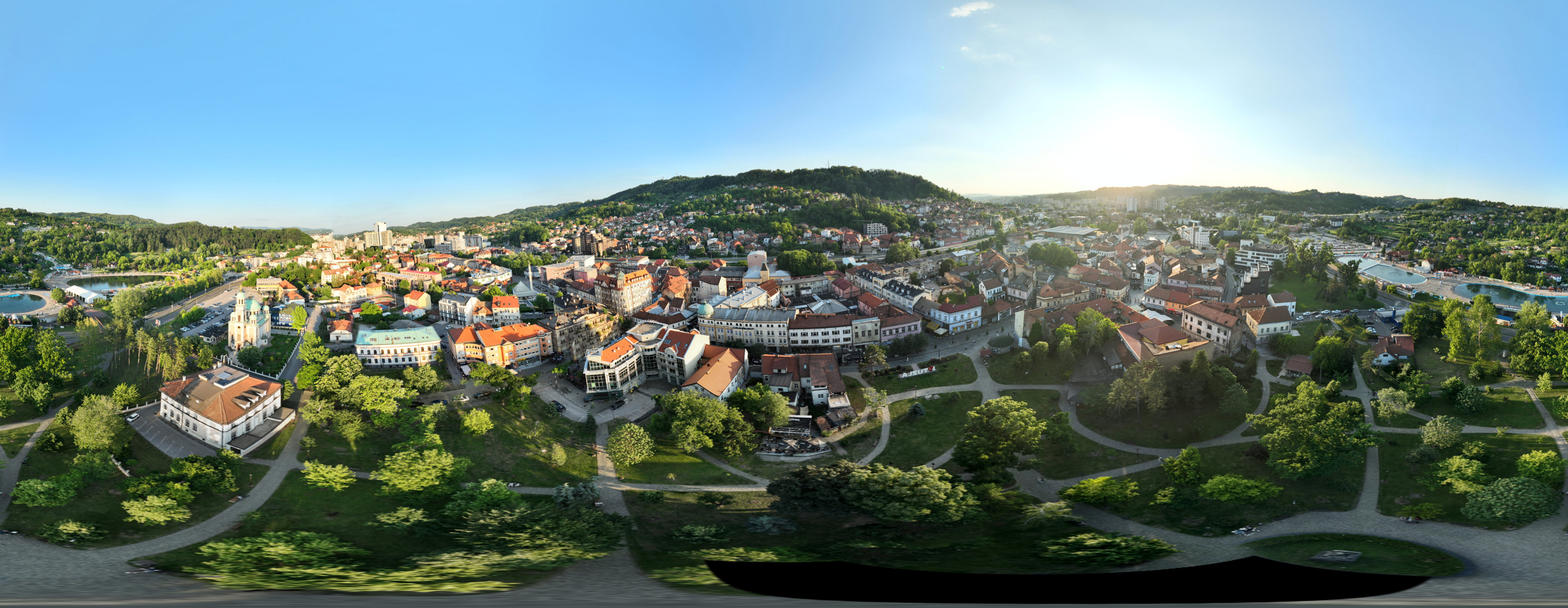
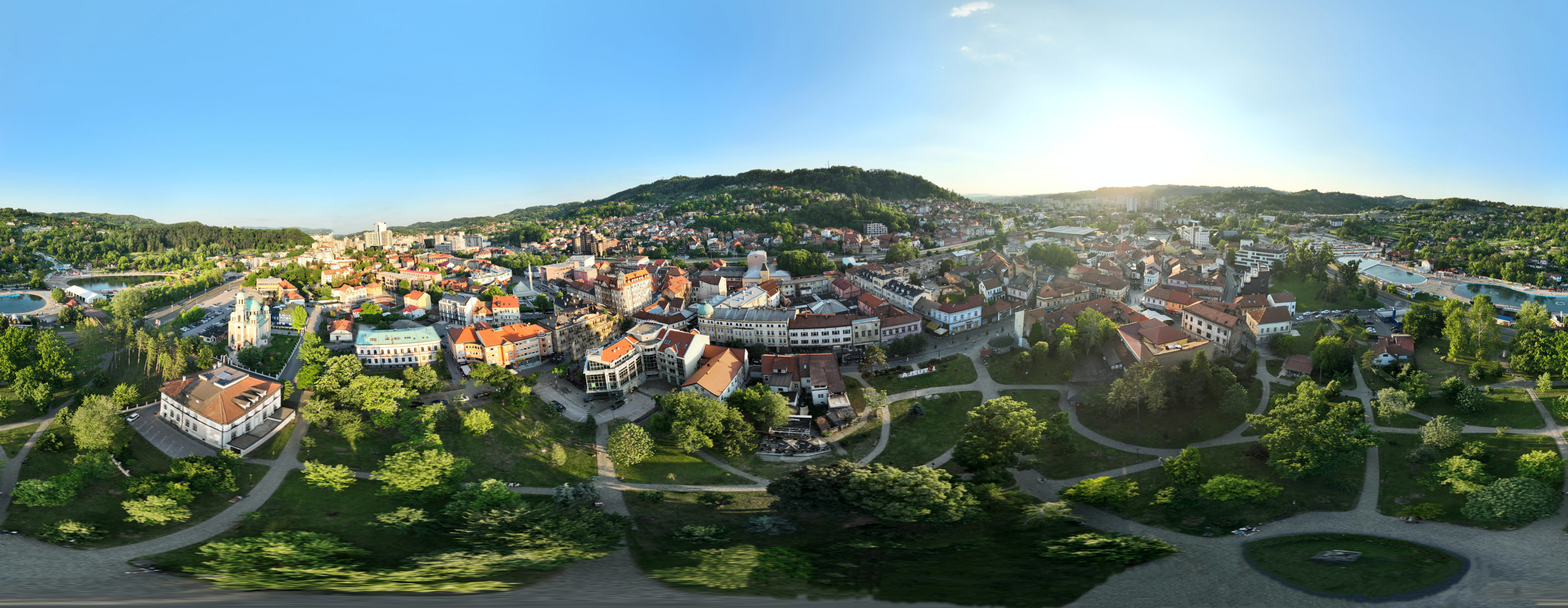
feat: implement MapQuestView component and add King Tvrtko gallery asset

Changed region(s): [[0.4375, 0.8916, 1.0, 1.0]]

diff --git a/components/MapQuestView.tsx b/components/MapQuestView.tsx
@@ -106,7 +106,7 @@ const QUEST_TARGETS = [
   { id: 'atelje_ismet', name: { en: 'Atelje Ismet Mujezinovic', bs: 'Atelje Ismet Mujezinović' }, Html5Qrcode: '/assets/Gallery/QuestQRLocations/QRAtelje.png', Image: '/assets/Gallery/QuestQRLocations/atelje.webp' },
   { id: 'bingo_city_centar', name: { en: 'Bingo City Center', bs: 'Bingo City Centar' }, Html5Qrcode: '/assets/Gallery/QuestQRLocations/QRBingoCityCenter.png', Image: '/assets/Bingo-supermarket.webp', website: 'https://tuzla.bingocitycenter.ba/' },
   { id: 'mesa_selimovic', name: { en: 'Mesa Selimovic', bs: 'Meša Selimović' }, Html5Qrcode: '/assets/Gallery/QuestQRLocations/QRMesaStatue.png', Image: '/assets/Gallery/QuestQRLocations/TuzlaMesaS.webp', video: '/assets/Gallery/QuestQRLocations/MesaSelimovic.mp4' },
-  { id: 'tvrtko_park', name: { en: 'King Tvrtko Park', bs: 'Park Kralja Tvrtka I' }, Html5Qrcode: '/assets/Gallery/QuestQRLocations/QRtvrtko.png', Image: '/assets/Gallery/QuestQRLocations/Tvrko pannellum/tvrle.png' },
+  { id: 'tvrtko_park', name: { en: 'King Tvrtko Park', bs: 'Park Kralja Tvrtka I' }, Html5Qrcode: '/assets/Gallery/QuestQRLocations/QRtvrtko.png', Image: '/assets/Gallery/Photos/tuzla12.webp' },
 ];
 
 interface MapQuestViewProps {
